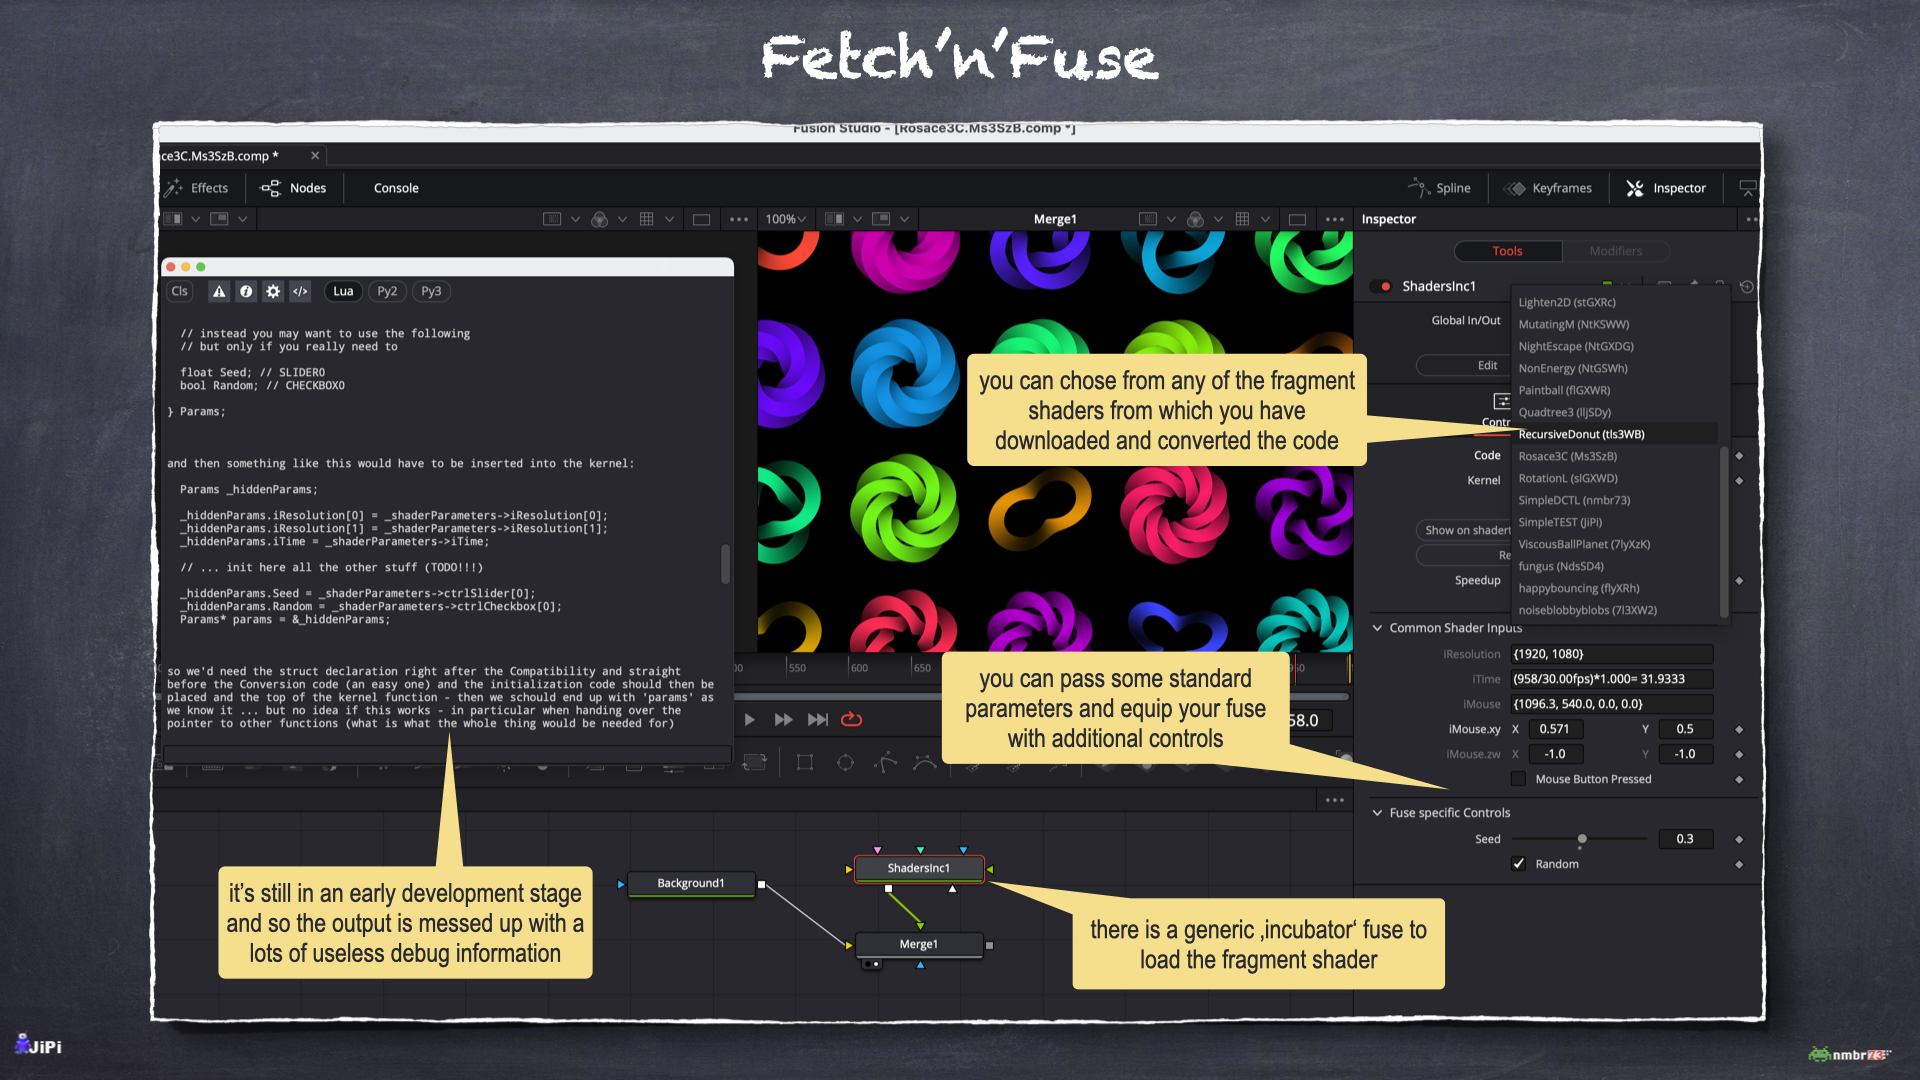
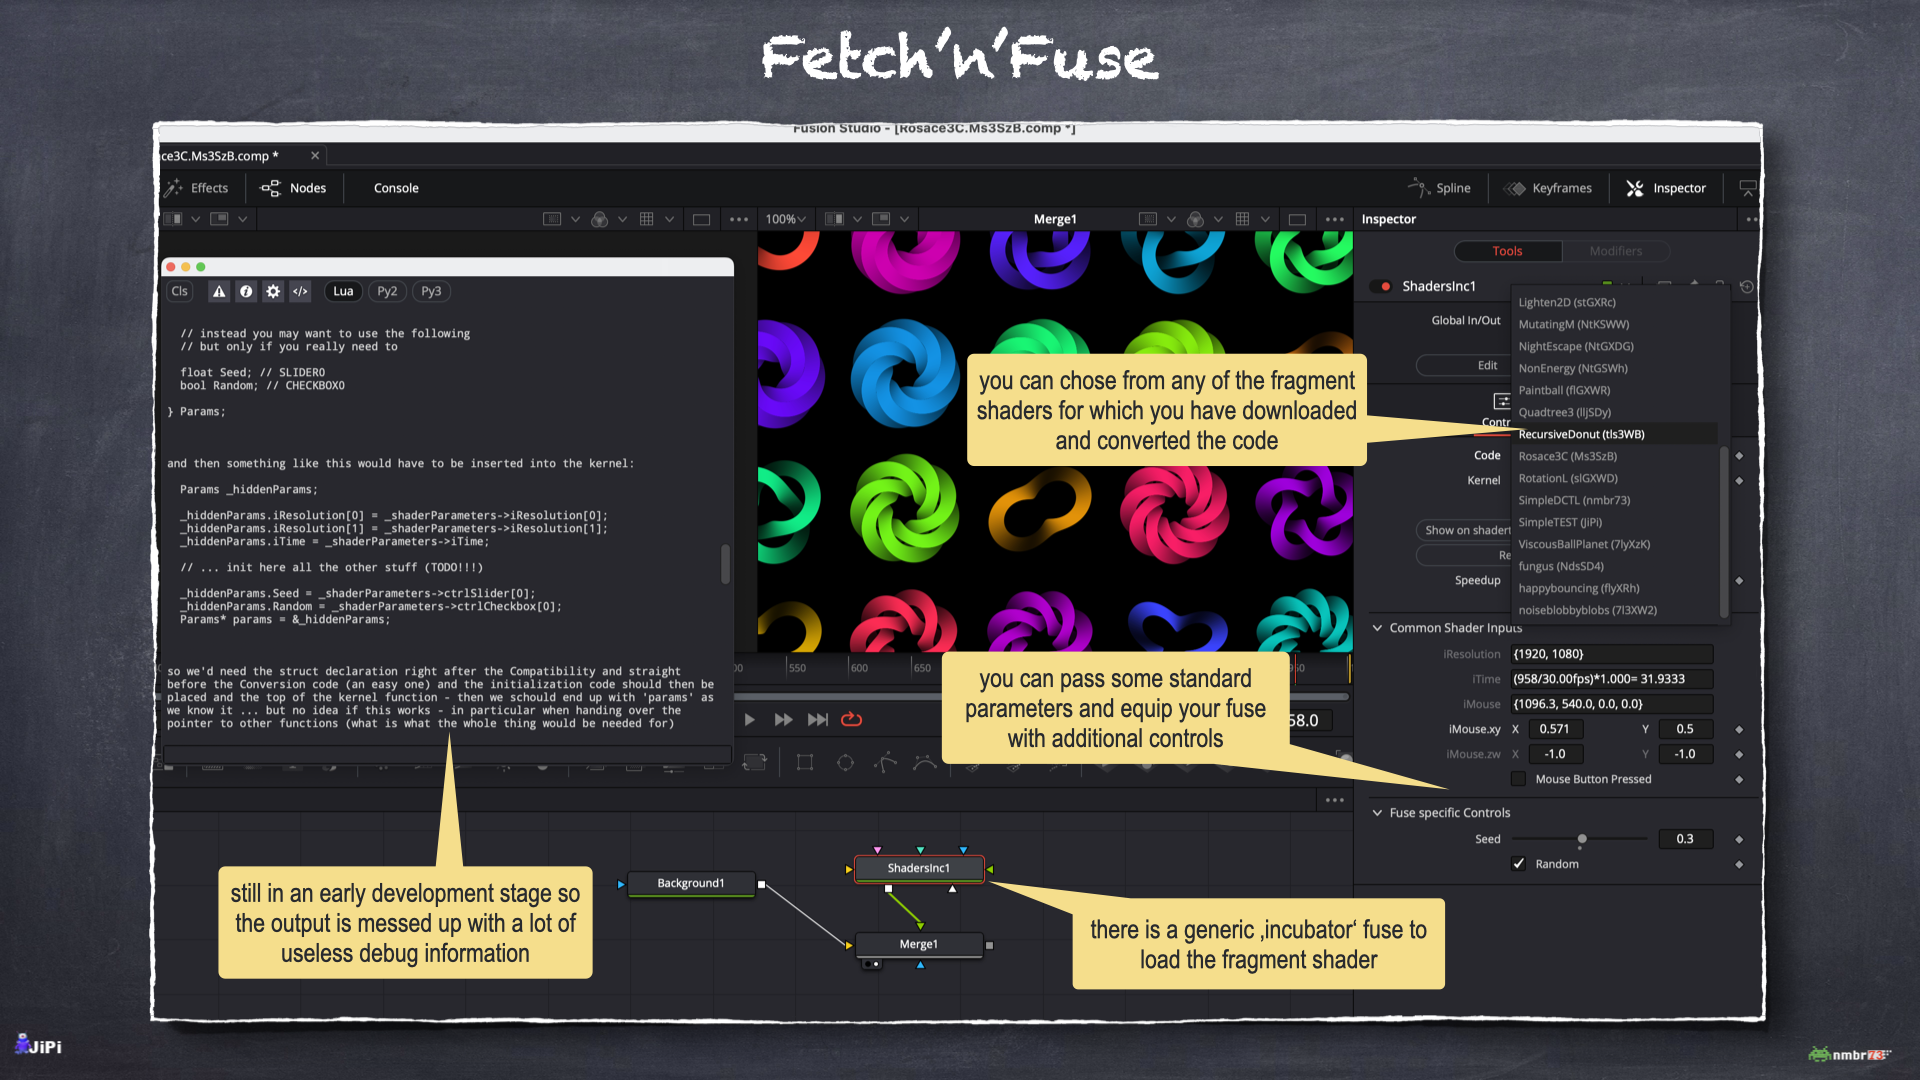
Typos.

Changed region(s): [[0.125, 0.7944, 0.3125, 0.9167], [0.5, 0.3667, 0.7188, 0.4278]]

diff --git a/README.md b/README.md
@@ -17,14 +17,14 @@ The idea is to **Fetch a Shader** ABC via ...
 
 The `fetch` does fetch some code and the Incubator.fuse is able to show the shader. The `fuse` command does also produce some usable output already. But all the (itermediate) results always need a lot of care and manual rework!
 
-> **You see:** The whole thing is obviously in a very early stage and will probably not work all too well well! So be kind, have some patience and most importantly use at your very own risk!
+> **You see:** The whole thing is obviously in a very early stage and will probably not work all too well! So be kind, have some patience and most importantly: use at your very own risk!
 
 
 ## Known Limitations
 
 The pre-conversion is very basic (not a C parser, but just some simple regex string substitutions) and does some wrong text replacements - but still it's better then doing it all by hand.
 
-The `fetch` command does work only for shaders that had been marked by their aurhors for API publication - and it seems that quite a lot of shaders are restricted in this regard :worried:
+The `fetch` command does work only for shaders that had been marked by their authors for API publication - and it seems that quite a lot of shaders are restricted in this regard :worried:
 
 
 ## Setup
